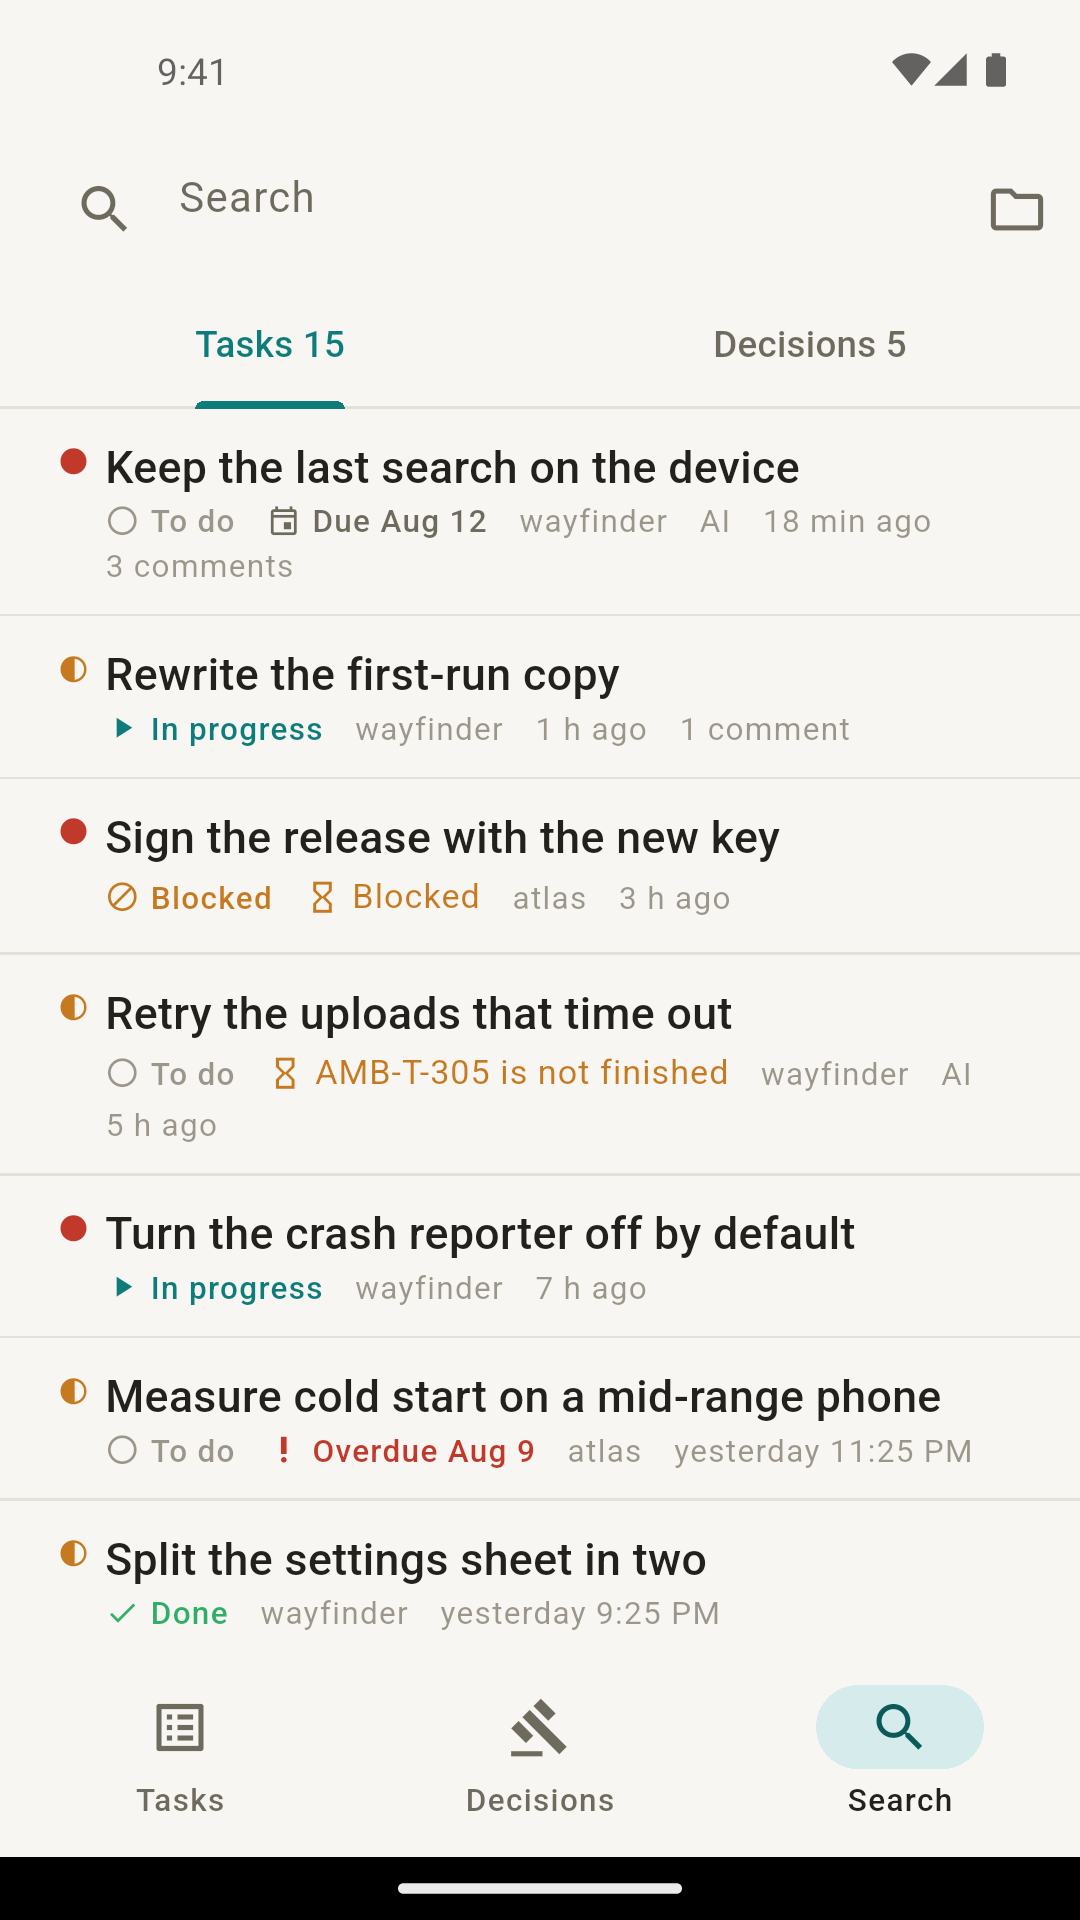
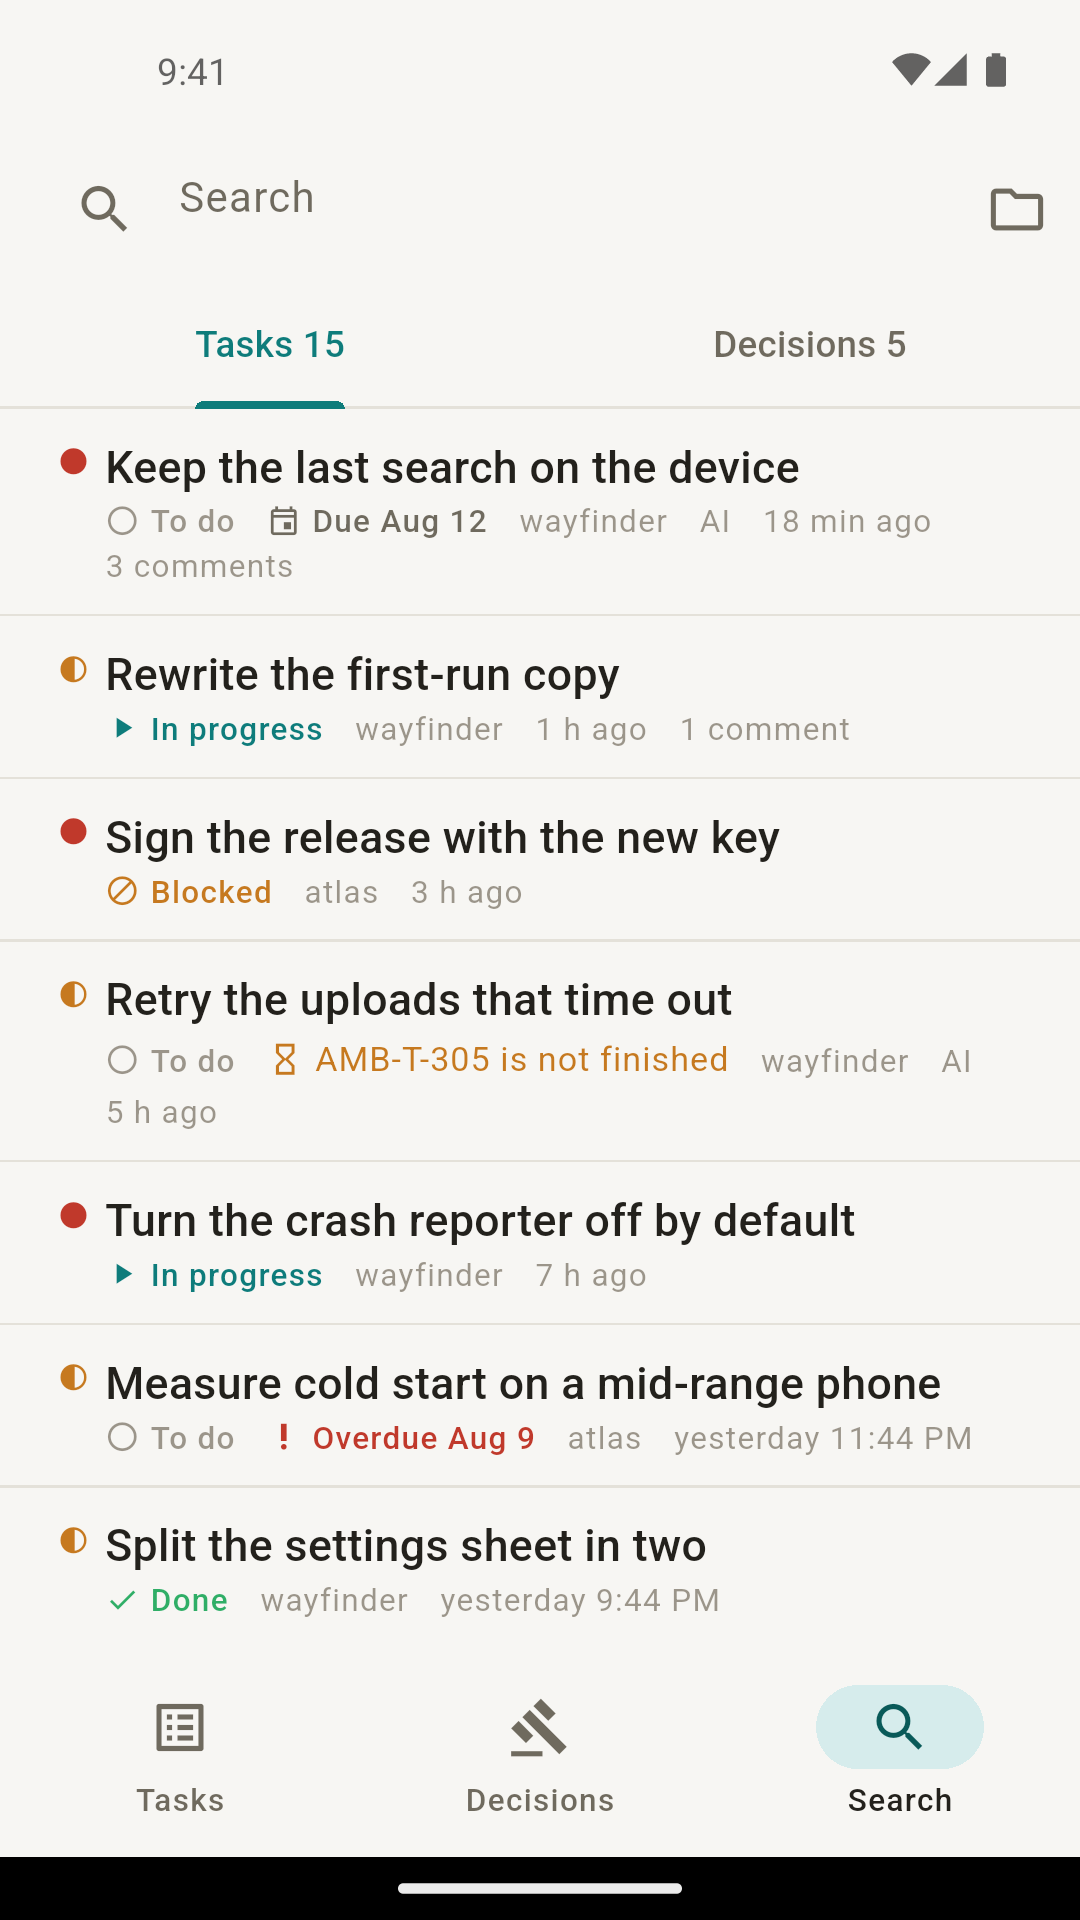
Stop the waiting mark from repeating the state it sits beside
The mark beside a title is for naming what to go and do about a task that
cannot start, and amenbo's bare `blocked` names nothing: it is the state
itself. Every row already says the state — under the switch it is read in, in
the mark a row standing on its own carries, and in the sentence it is read
aloud as — so a line here said it twice, and in English said the same word
twice.

Every premise that actually holds a task back keeps its line: a blocker with
a name, an undecided decision, a creation nobody finished, a day still ahead.

The word that only ever came out of that arm goes with it, out of the sheet
it was written on and out of the nineteen copies of it. The store's pictures
are taken again, because one of them was of this.

diff --git a/app/lib/ui/task_row.dart b/app/lib/ui/task_row.dart
@@ -31,13 +31,16 @@ String labelWithCount(Words words, String name, Counted count) =>
 
 /// Why a task cannot be started, in the words the person needs in order to act.
 ///
-/// A named blocker comes first because it is the only one that says what to go and do. `blocked`
-/// comes last for the same reason from the other end: it is amenbo's word for a stall nobody has
-/// written down, so it is what is left when there is nothing more useful to say.
+/// A named blocker comes first because it is the only one that says what to go and do.
 ///
 /// **Every premise that holds a task back has a line here.** No list divides by them any more, so
 /// this is the only place the person finds out — a start day still ahead included, which is a
 /// stall nobody has to do anything about and therefore the easiest one to leave out.
+///
+/// **amenbo's own `blocked` is not one of them.** It is the state rather than a premise, and every
+/// row already says the state: the switch it is read under, the mark beside it wherever a row
+/// stands on its own, and the sentence it is read aloud as. A line here as well only said it
+/// twice, and in English said the same word twice.
 String? stallReason(TimeFace face, TaskLine line, {required DateTime today}) {
   final words = face.words;
   final blocker = line.blockedBy;
@@ -49,7 +52,6 @@ String? stallReason(TimeFace face, TaskLine line, {required DateTime today}) {
   if (start != null && start.compareTo(isoDay(today)) > 0) {
     return words.stallStarts(dayLabel(face, start, now: today));
   }
-  if (line.status == 'blocked') return words.stallBlocked;
   return null;
 }
 

diff --git a/app/test/search_screen_test.dart b/app/test/search_screen_test.dart
@@ -342,6 +342,42 @@ void main() {
     });
   });
 
+  group('the state is said once', () {
+    testWidgets('a blocked row with nothing named carries the state alone', (
+      tester,
+    ) async {
+      store.applyPage([
+        BacklogChange.put('task', 1, task(id: 1, status: 'blocked')),
+      ]);
+
+      await tester.pumpWidget(screen());
+
+      // The mark a row standing on its own carries says the state. The place beside it is for
+      // naming what to go and do, and amenbo's bare `blocked` names nothing — put there as well,
+      // it only said the state twice.
+      expect(find.byType(StatusMark), findsOneWidget);
+      expect(find.byType(StallMark), findsNothing);
+    });
+
+    testWidgets('a blocker with a name still gets its own line', (
+      tester,
+    ) async {
+      store.applyPage([
+        BacklogChange.put('task', 1, task(id: 1)),
+        BacklogChange.put('task', 2, task(id: 2, status: 'blocked')),
+        BacklogChange.put(
+          'task_dependency',
+          1,
+          dependency(id: 1, taskId: 2, blockedById: 1),
+        ),
+      ]);
+
+      await tester.pumpWidget(screen());
+
+      expect(find.byType(StallMark), findsOneWidget);
+    });
+  });
+
   group('the same thing is looked up twice', () {
     setUp(
       () => store.applyPage([

diff --git a/app/README.md b/app/README.md
@@ -43,7 +43,9 @@ iCloud にサインインしていない状態は失敗ではなく、`available
 **タスクの面は、状態四つの切り替え**（未着手／進行中／ブロック／完了）。分ける単位は amenbo の状態
 そのままで、前提が足りているかどうかでは分けない——それは導いた値で、日をまたげば同じタスクでも答えが
 変わる。導いた値で分けると、PC で見た並びとここの並びが食い違う。**待っているものは未着手に残し、
-その行に砂時計の印と待っている相手を出す**。切り替えの見出しには件数が付き、**0 件の状態も出す**
+その行に砂時計の印と待っている相手を出す**。**相手を名乗れないなら印は出さない**——amenbo の `blocked` は
+前提ではなく状態そのもので、状態は切り替えと行の印と読み上げがすでに言っている。
+切り替えの見出しには件数が付き、**0 件の状態も出す**
 （「ブロックは0件」は読みに来た人が知りたい答えで、印が消えることではない）。
 
 **一つの状態は、そのまま端まで辿れる**。50件ずつ読み、下端に着いたら次を読み込む。**二十行で切って
